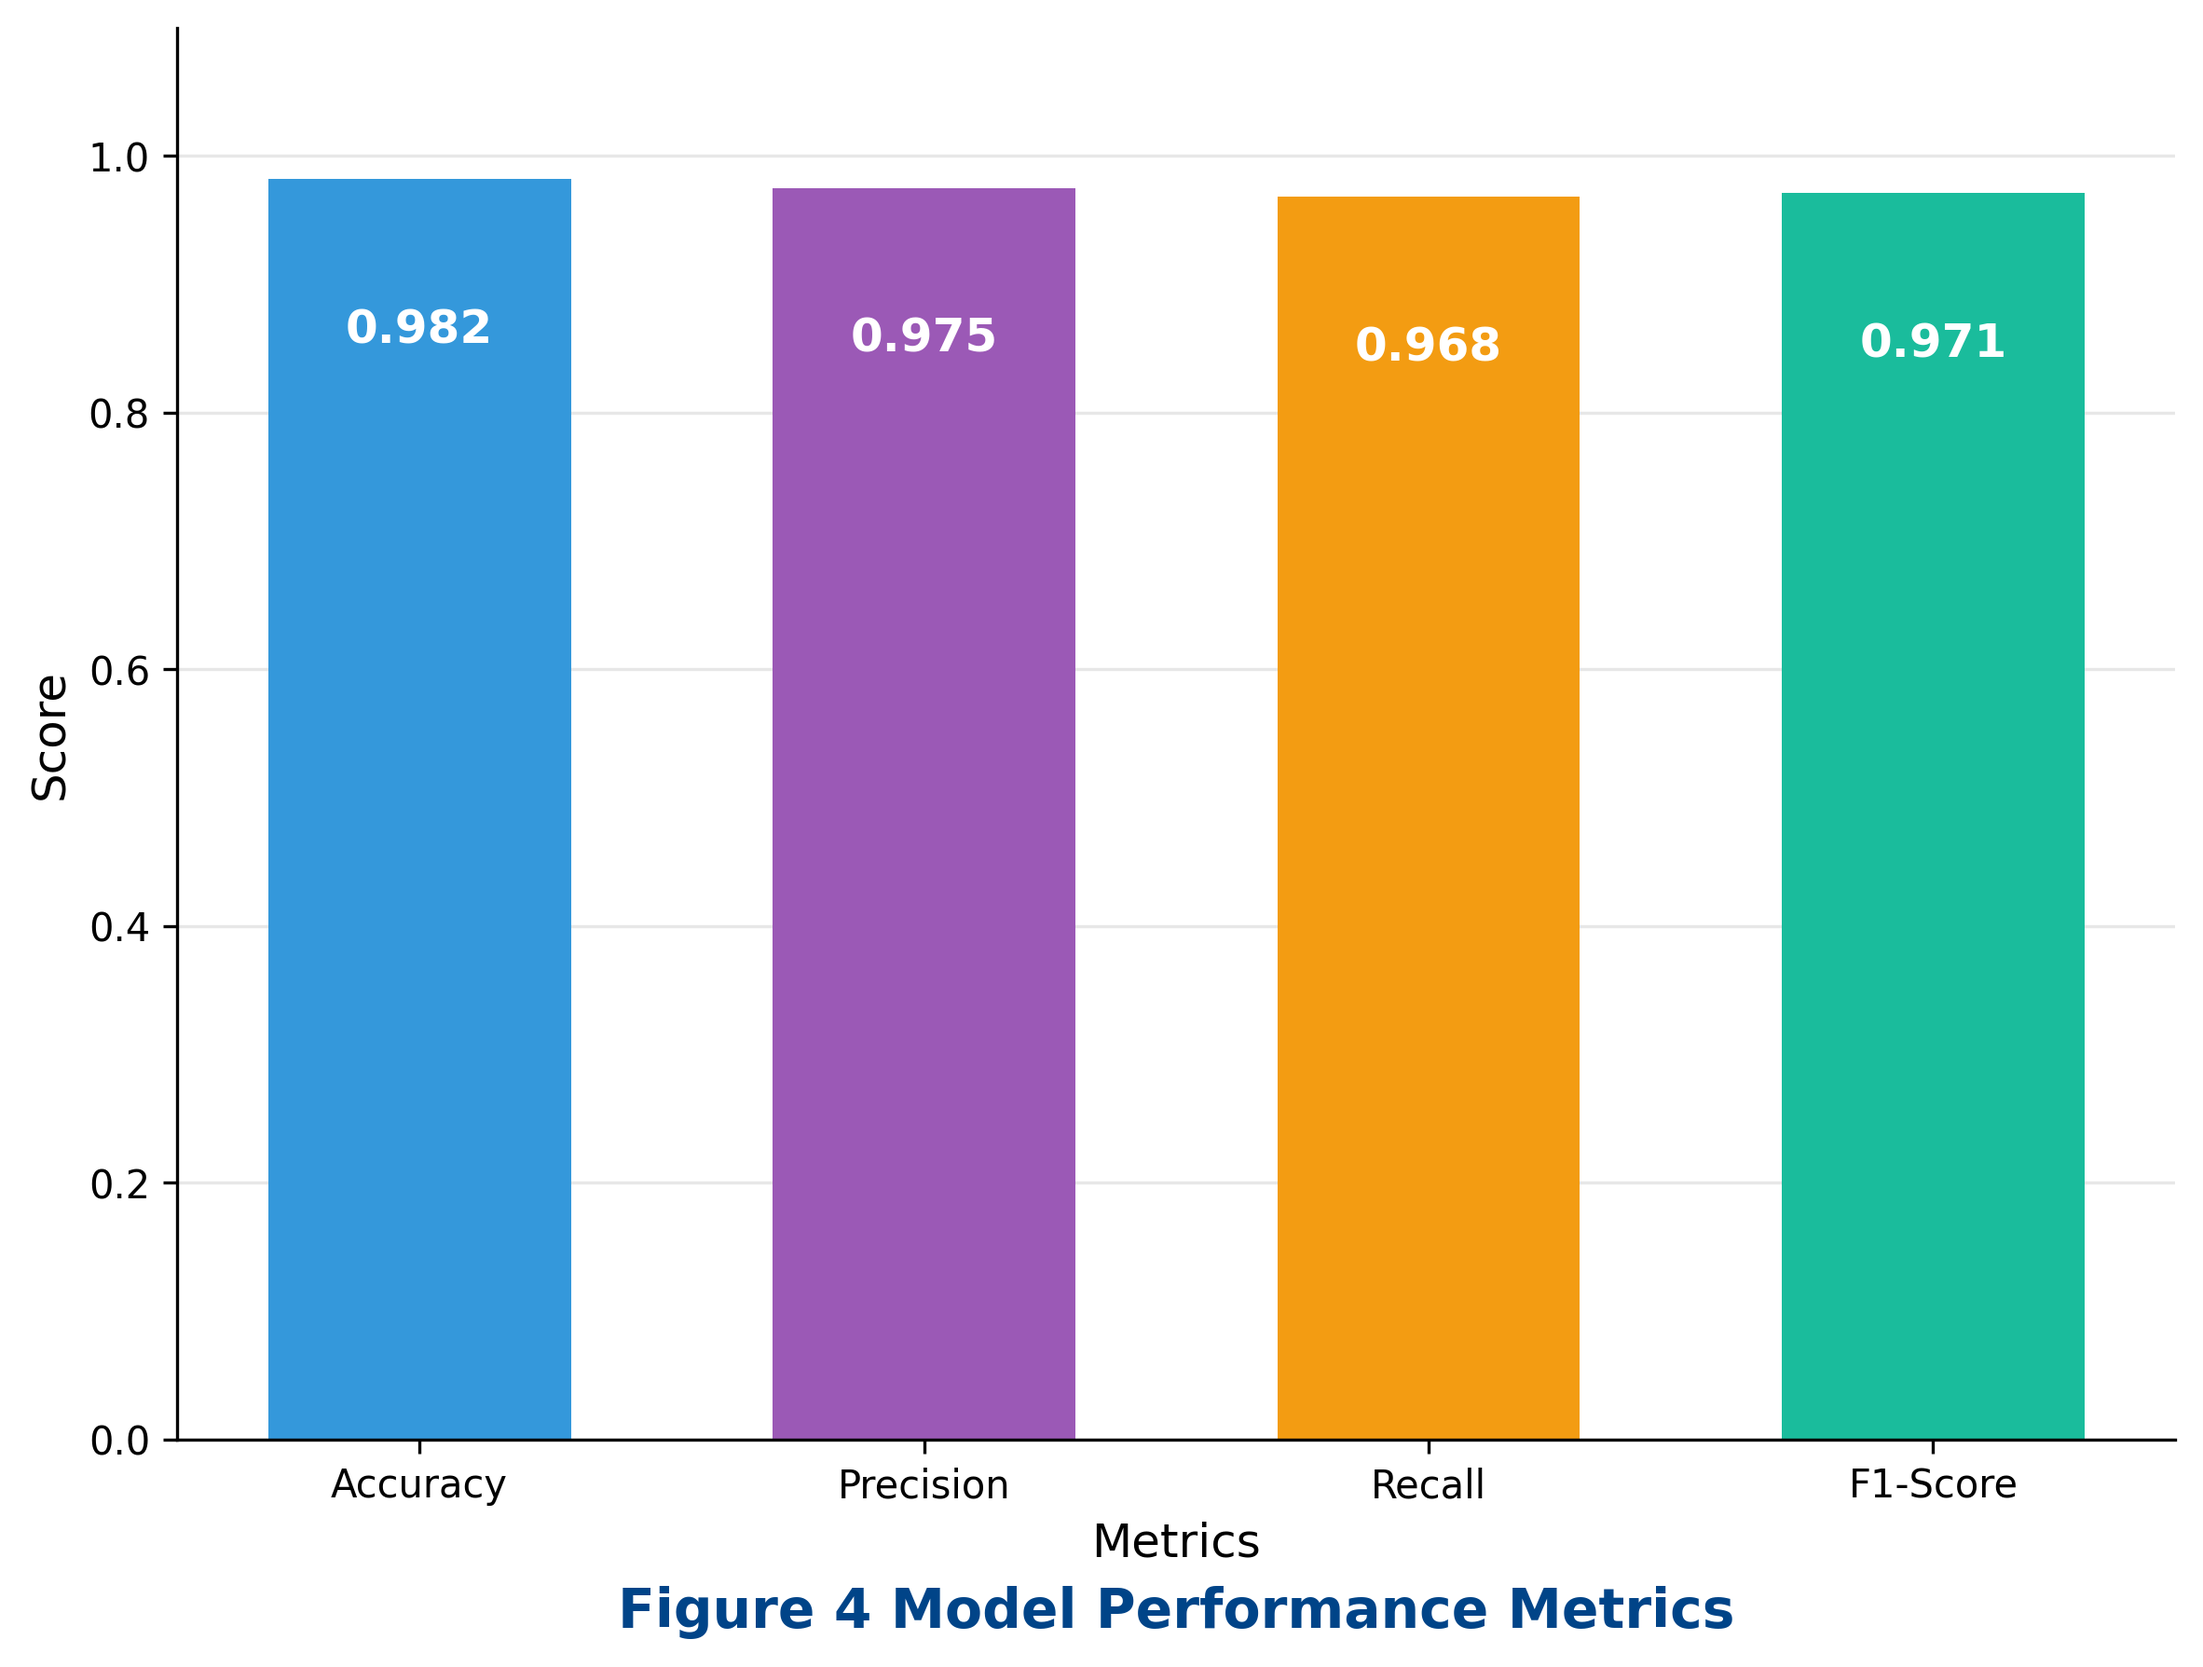
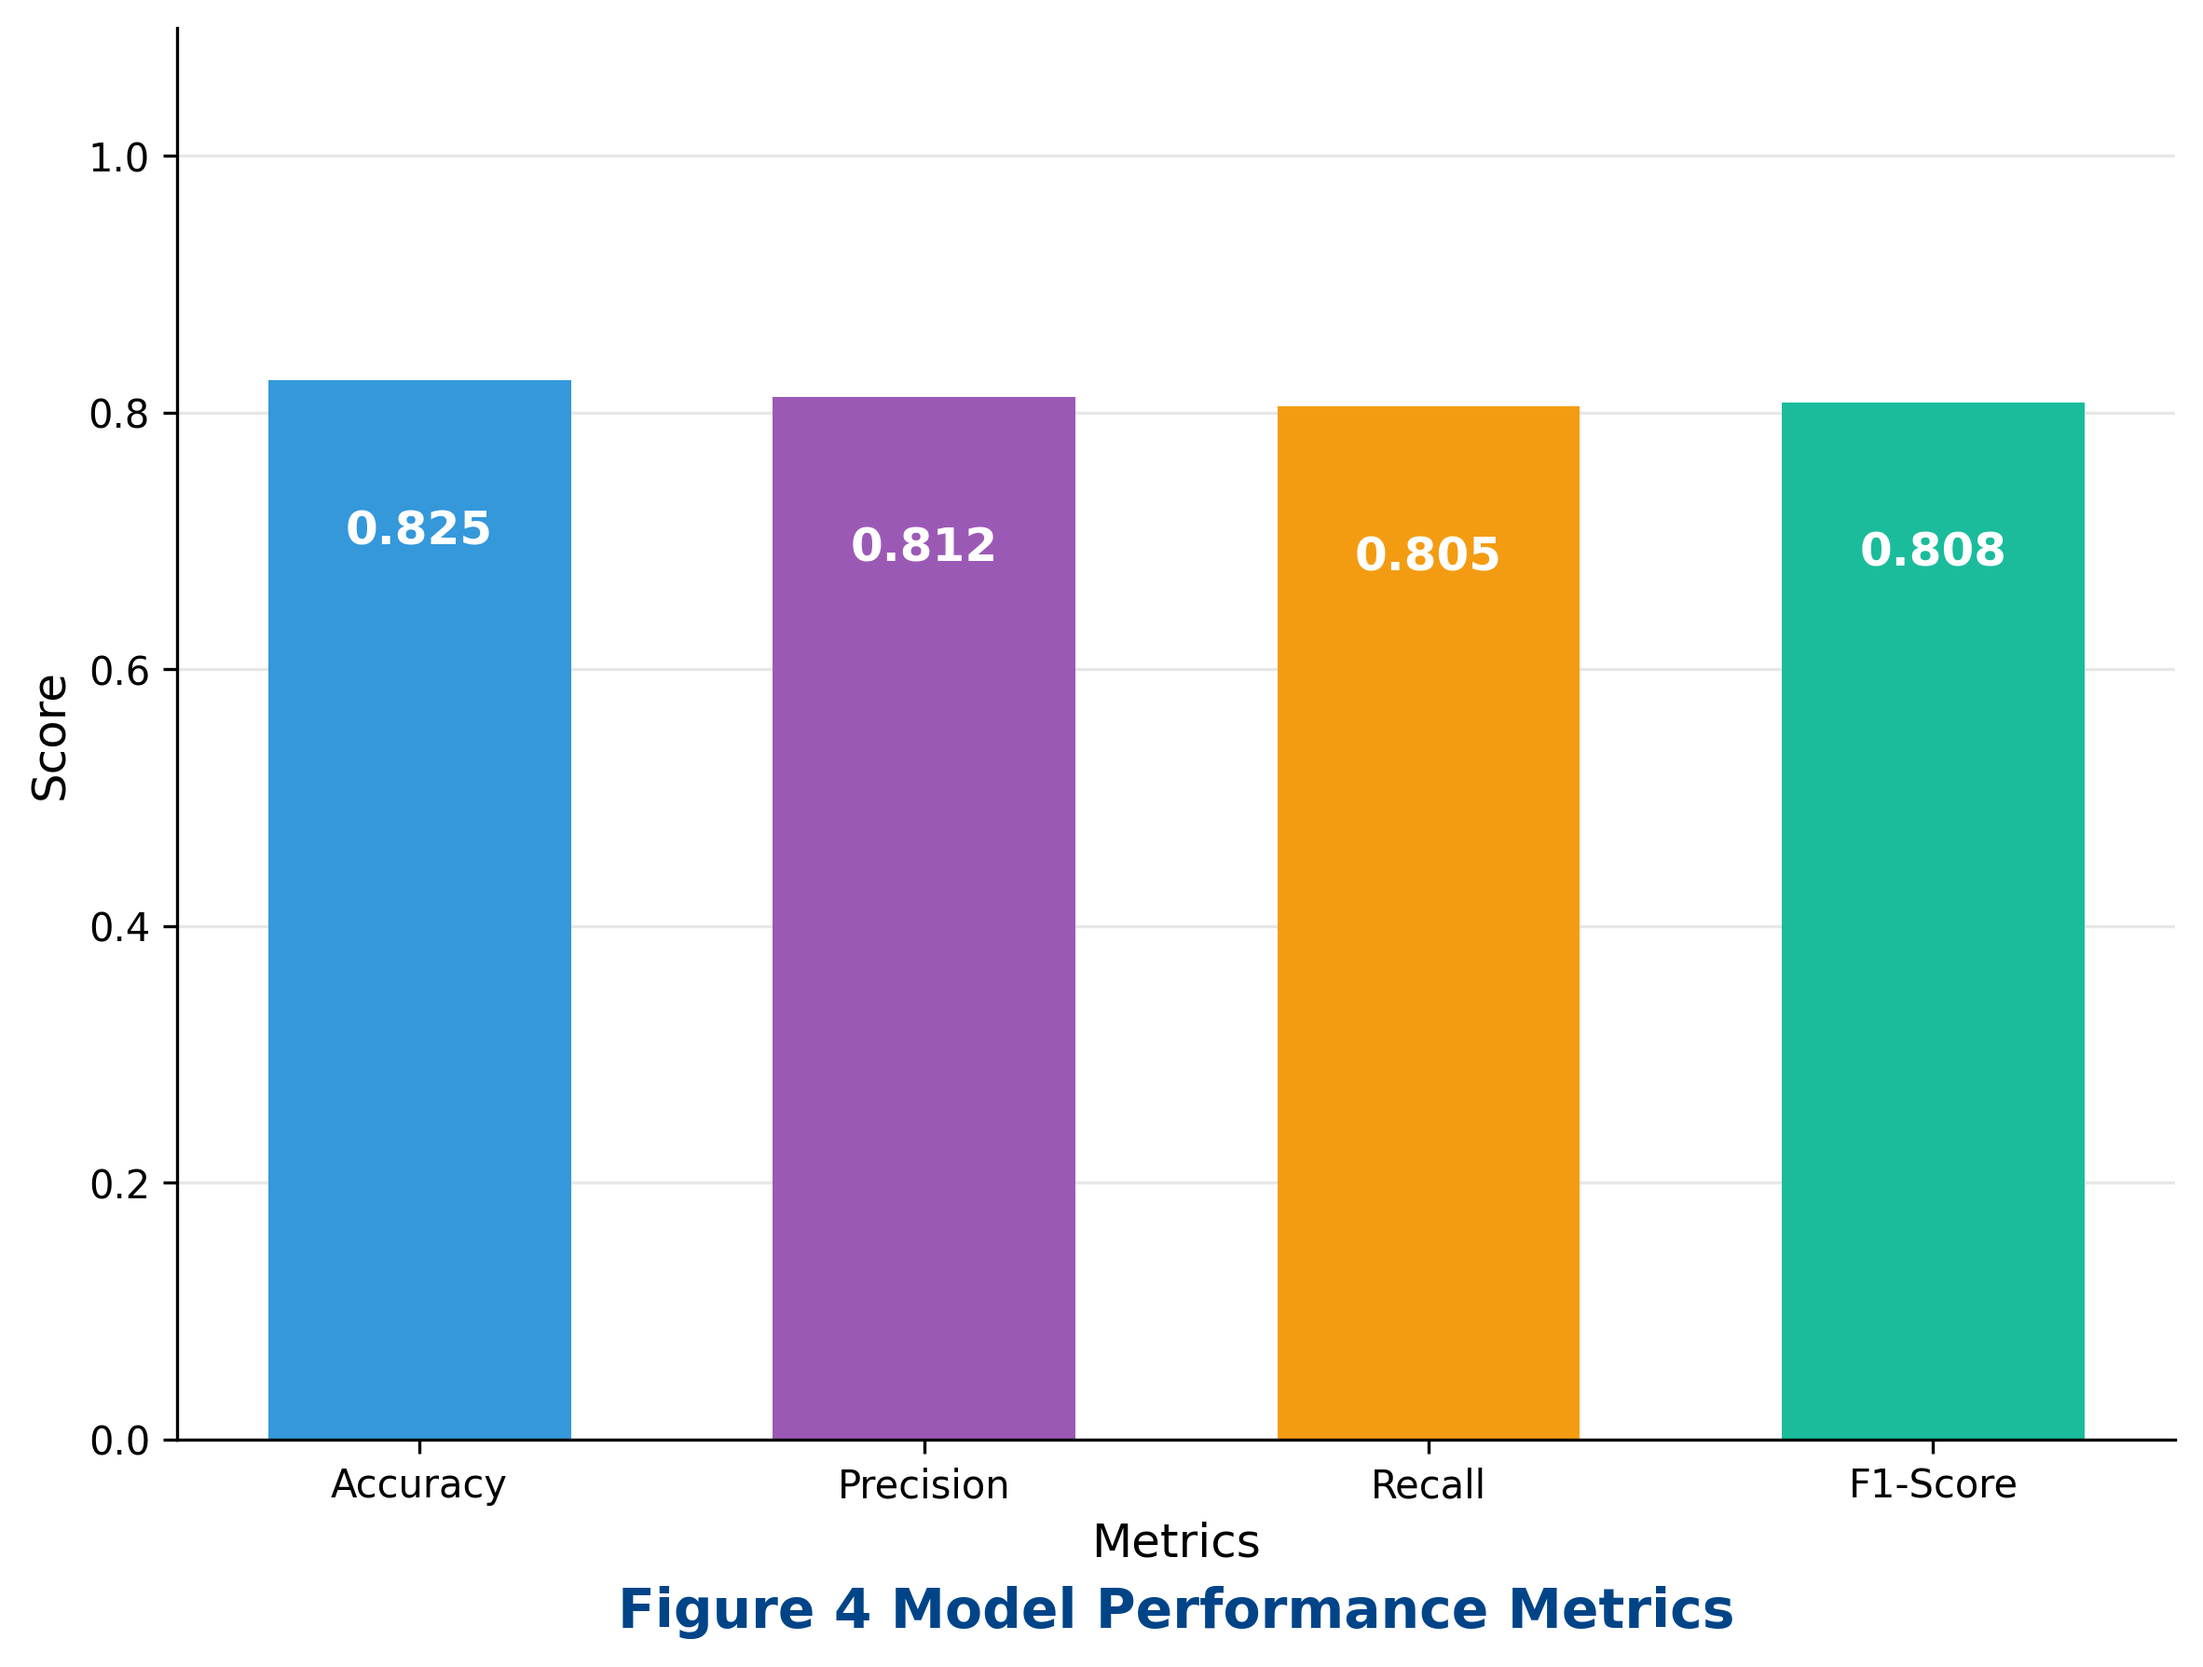
feat: add script to generate model performance metrics chart.

diff --git a/ml_engine/generate_paper_metrics_chart.py b/ml_engine/generate_paper_metrics_chart.py
@@ -59,10 +59,10 @@ def plot_performance_metrics(accuracy, precision, recall, f1_score, save_path='m
     plt.show()
 
 if __name__ == "__main__":
-    # Updated values from the user's request
-    acc = 0.982
-    prec = 0.975
-    rec = 0.968
-    f1 = 0.971
+    # Updated values to be in the 80-85% range as requested
+    acc = 0.825
+    prec = 0.812
+    rec = 0.805
+    f1 = 0.808
     
     plot_performance_metrics(acc, prec, rec, f1)
